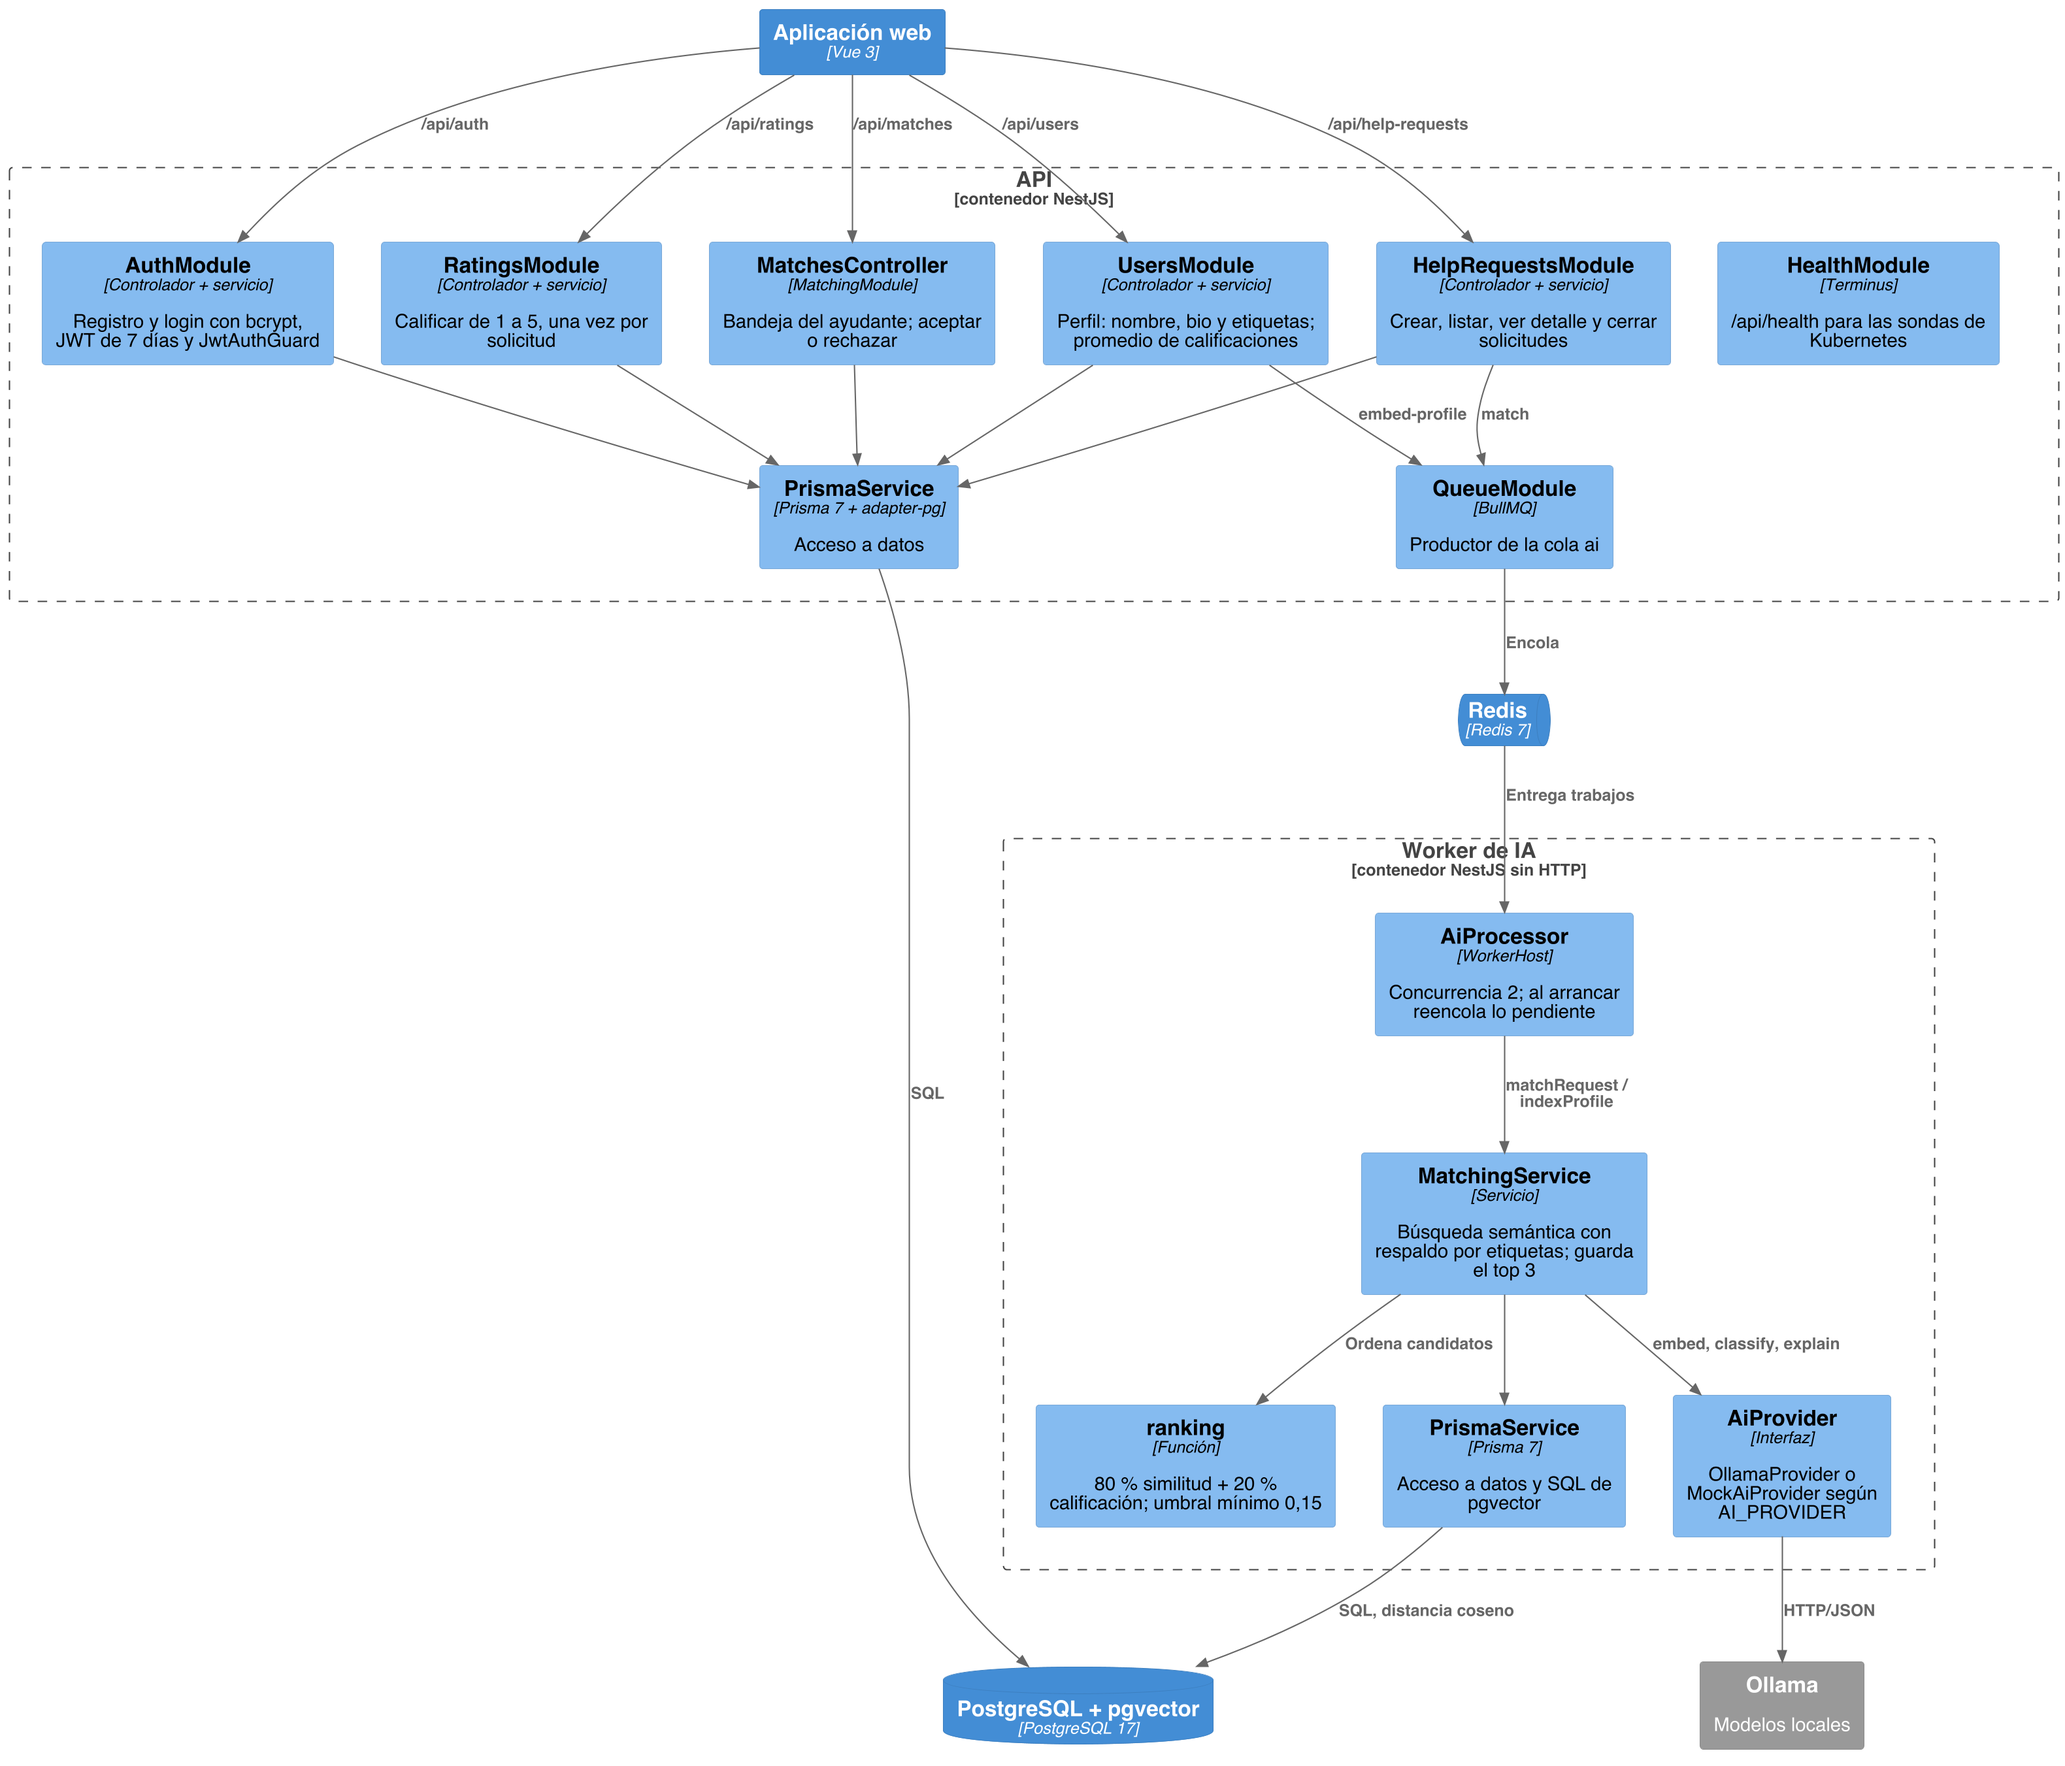
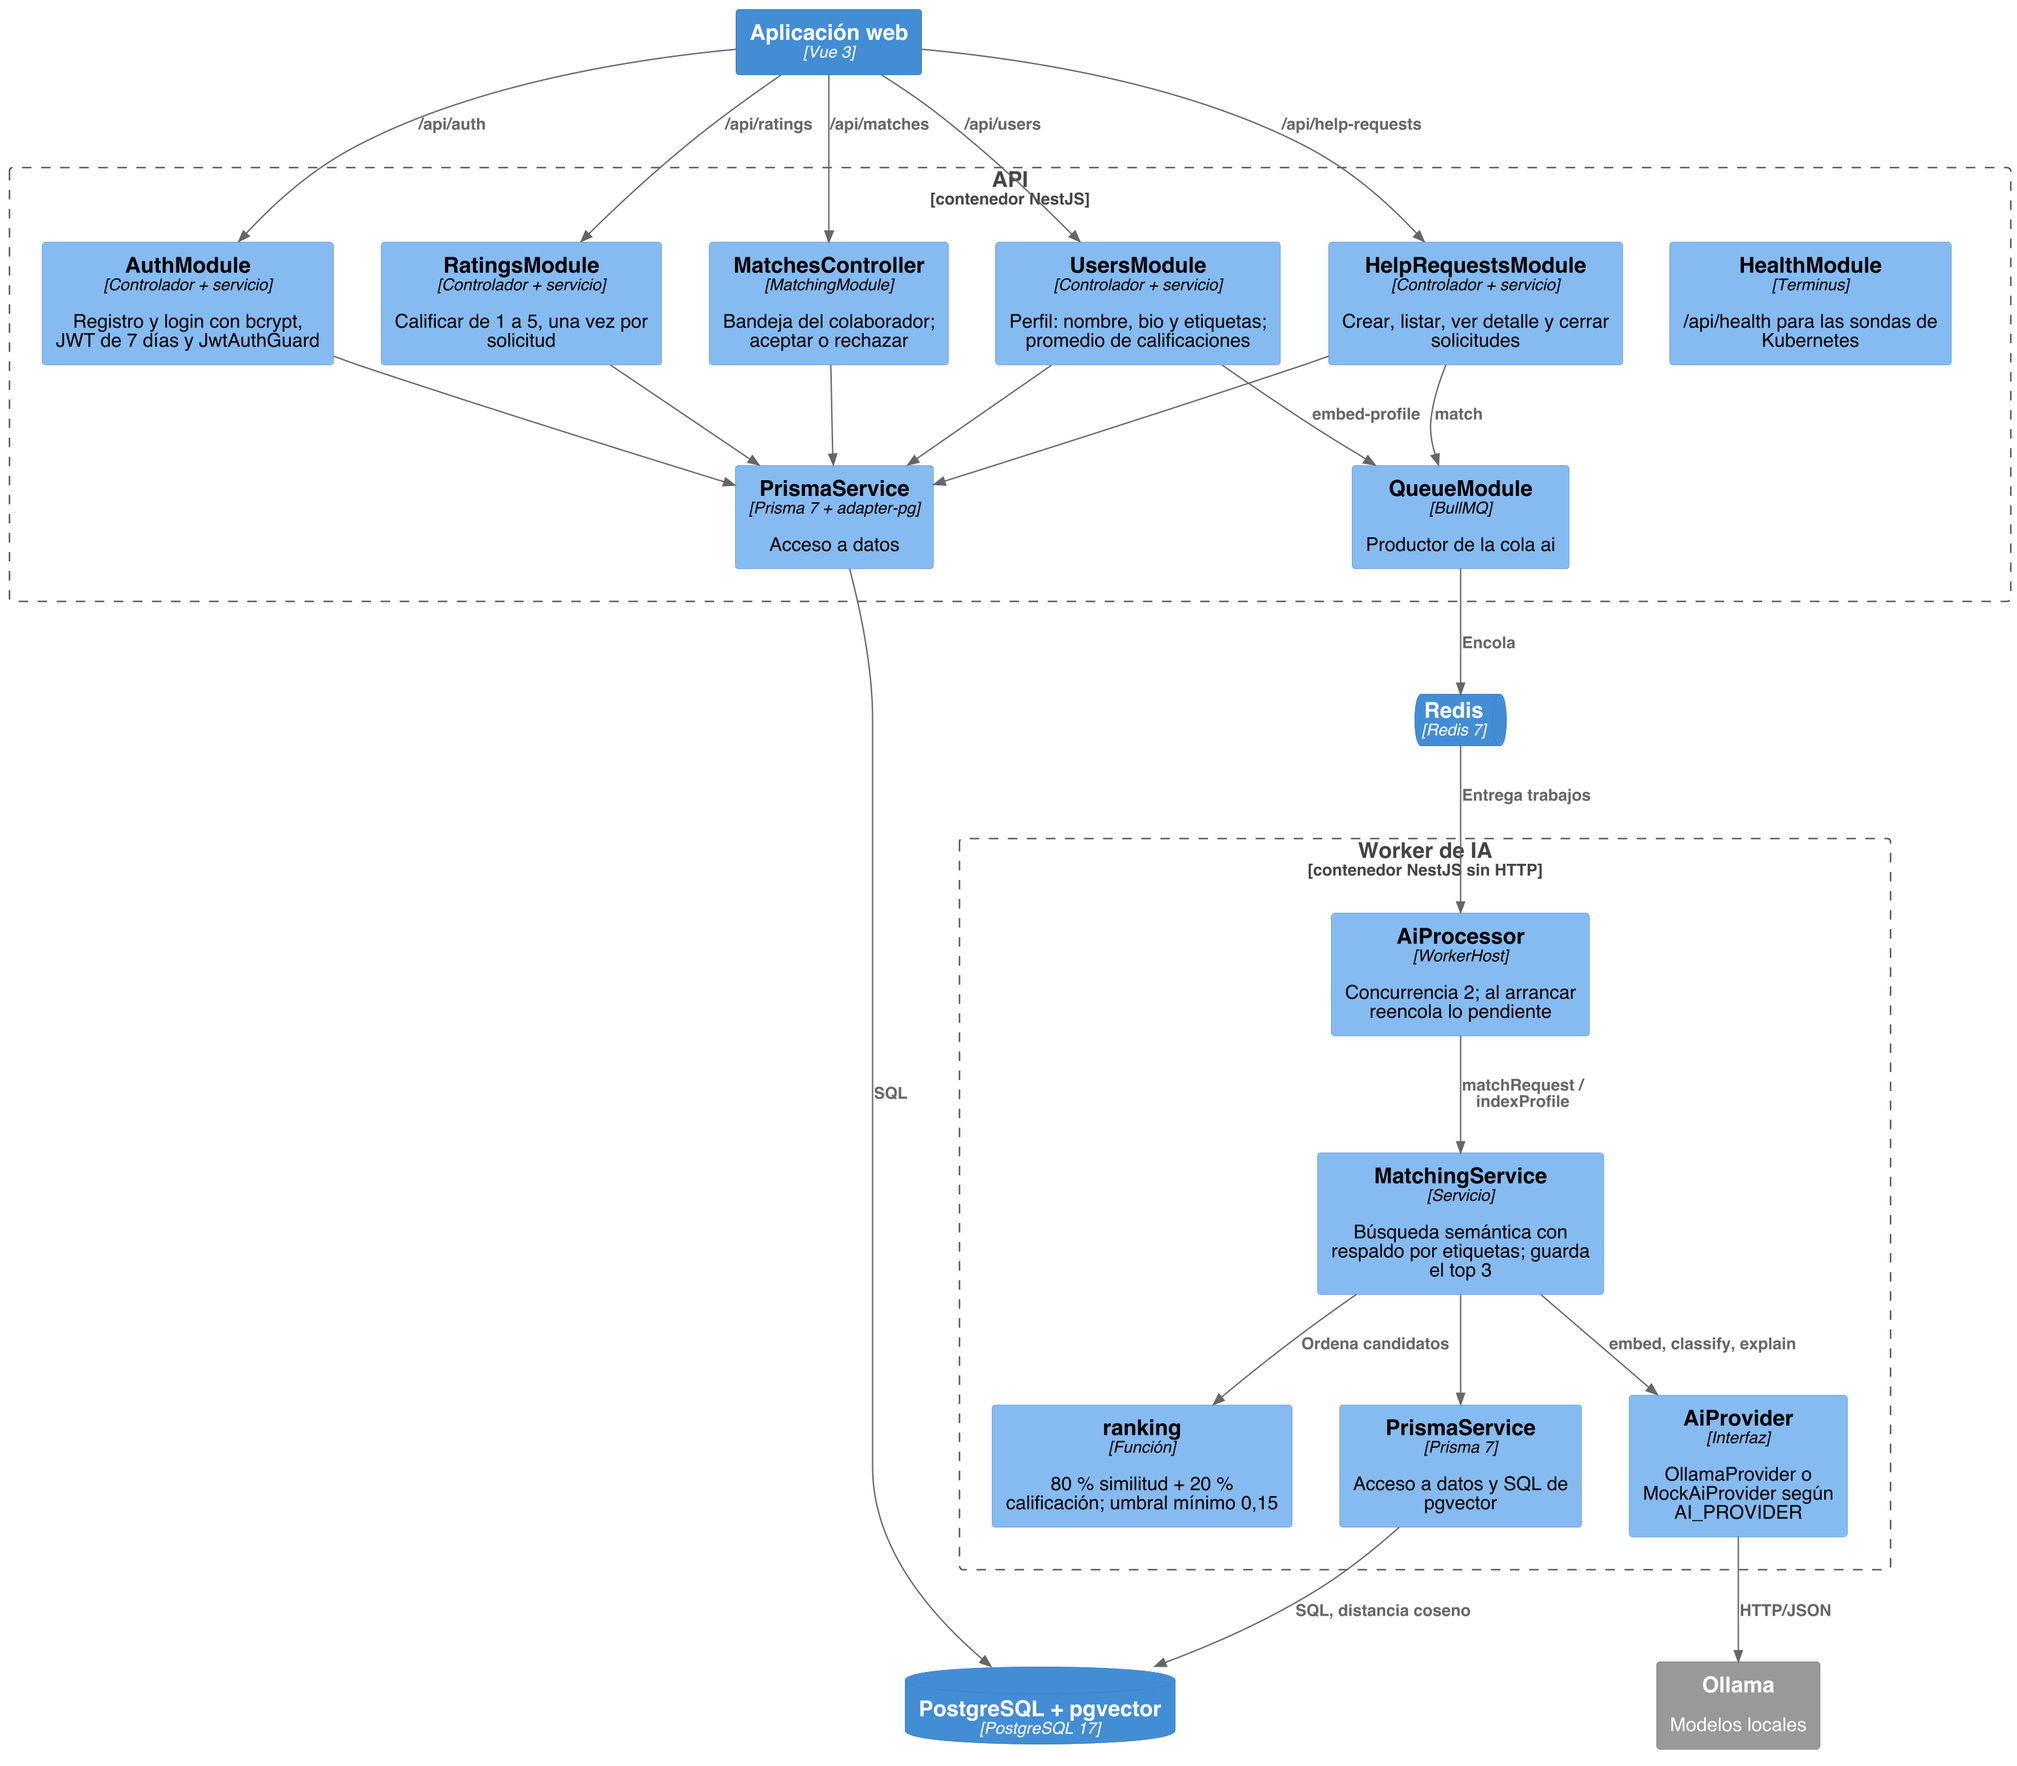
docs(arquitectura): términos solicitante y colaborador en diagramas (#19)
## Qué cambia
- Los diagramas usan los mismos términos del documento del proyecto: **Ayudante → Colaborador** y **Estudiante solicitante / Estudiante → Solicitante**.
- Fuentes `.puml` actualizadas: 01, 02 y 03 (C4), 07 (casos de uso), 08 y 09 (secuencias) y 11 (estados).
- PNG regenerados con PlantUML para esos 7 diagramas.
- `diagramas.md` y `diccionario-de-datos.md` actualizados con el mismo término.

## Por qué
El documento de entrega (Google Docs) habla de *solicitante* y *colaborador* como funciones de una misma cuenta. Los diagramas decían *Ayudante*, y la diferencia se notaba al ponerlos juntos.

diff --git a/docs/arquitectura/diccionario-de-datos.md b/docs/arquitectura/diccionario-de-datos.md
@@ -15,7 +15,7 @@ Los **plazos de conservación** son una propuesta: el equipo debe aprobarlos y l
 | Campo | Tipo | Nulo | Restricción | Descripción | Clasificación | Protección | Conservación propuesta |
 | --- | --- | --- | --- | --- | --- | --- | --- |
 | id | uuid | No | PK | Identificador interno | Público | No revela orden ni cantidad de usuarios | Mientras exista la cuenta |
-| email | text | No | Único | Correo de acceso; se entrega al autor solo cuando un ayudante acepta | Personal | No se expone en `GET /users/:id`; solo viaja en `POST /matches/:id/accept` | Mientras exista la cuenta |
+| email | text | No | Único | Correo de acceso; se entrega al autor solo cuando un colaborador acepta | Personal | No se expone en `GET /users/:id`; solo viaja en `POST /matches/:id/accept` | Mientras exista la cuenta |
 | passwordHash | text | No | – | Hash bcrypt de la contraseña (8 a 72 caracteres) | Credencial | bcrypt con sal; nunca sale de la API | Mientras exista la cuenta |
 | name | text | No | – | Nombre visible | Personal | Visible solo para usuarios con sesión | Mientras exista la cuenta |
 | bio | text | Sí | – | Habilidades y experiencia en texto libre | Personal | Se procesa solo con IA local (Ollama), sin enviarla a terceros | Mientras exista la cuenta |
@@ -44,26 +44,26 @@ Los **plazos de conservación** son una propuesta: el equipo debe aprobarlos y l
 | --- | --- | --- | --- | --- | --- | --- | --- |
 | id | uuid | No | PK | Identificador | Público | – | Igual que la solicitud |
 | requestId | uuid | No | FK → HelpRequest; único con helperId | Solicitud | Público | – | Igual que la solicitud |
-| helperId | uuid | No | FK → User | Ayudante propuesto | Personal | Solo él ve la bandeja; solo él acepta o rechaza | Igual que la solicitud |
+| helperId | uuid | No | FK → User | Colaborador propuesto | Personal | Solo él ve la bandeja; solo él acepta o rechaza | Igual que la solicitud |
 | score | float | No | 0 a 1 | 0,8 × similitud + 0,2 × calificación | Personal derivado (perfilamiento) | Se explica al usuario (transparencia de la IA) | Igual que la solicitud |
 | explanation | text | Sí | – | Frase del LLM de por qué encaja | Personal derivado | Generada con IA local; respaldo por plantilla | Igual que la solicitud |
-| status | enum | No | PROPOSED, ACCEPTED, REJECTED | Respuesta del ayudante | Público | – | Igual que la solicitud |
+| status | enum | No | PROPOSED, ACCEPTED, REJECTED | Respuesta del colaborador | Público | – | Igual que la solicitud |
 | createdAt | timestamp | No | default now() | – | Público | – | Igual que la solicitud |
 
 ## Rating (calificación)
 
 | Campo | Tipo | Nulo | Restricción | Descripción | Clasificación | Protección | Conservación propuesta |
 | --- | --- | --- | --- | --- | --- | --- | --- |
-| id | uuid | No | PK | Identificador | Público | – | Mientras exista la cuenta del ayudante |
+| id | uuid | No | PK | Identificador | Público | – | Mientras exista la cuenta del colaborador |
 | requestId | uuid | No | FK → HelpRequest; **único** | Una calificación por solicitud | Público | Índice único en la base | Igual |
 | authorId | uuid | No | FK → User | Quién califica (solo el autor de la solicitud) | Personal | La API no expone las calificaciones individuales | Igual |
-| helperId | uuid | No | FK → User | Ayudante calificado | Personal | Solo se publica el promedio | Igual |
+| helperId | uuid | No | FK → User | Colaborador calificado | Personal | Solo se publica el promedio | Igual |
 | stars | int | No | 1 a 5 | Estrellas | Personal (evaluación) | Validado en la API | Igual |
 | createdAt | timestamp | No | default now() | – | Público | – | Igual |
 
 ## Embeddings e índice vectorial (RAG)
 
-- **Qué se vectoriza:** el perfil (`bio` + `tags`) y el texto de cada solicitud. No hay documentos aparte: los "documentos" del RAG son los perfiles de los ayudantes.
+- **Qué se vectoriza:** el perfil (`bio` + `tags`) y el texto de cada solicitud. No hay documentos aparte: los "documentos" del RAG son los perfiles de los colaboradores.
 - **Dónde se guarda:** en la misma tabla, columna `embedding vector(768)` de pgvector, así se borran junto con el dato de origen.
 - **Modelo:** `paraphrase-multilingual` en Ollama, local (elegido en IA-07 frente a `nomic-embed-text` y `all-minilm`). Ningún dato sale a una API externa.
 - **Búsqueda:** distancia coseno (`<=>`), los 10 más cercanos, y luego `ranking.ts` deja el top 3. El texto de esos 3 perfiles es el contexto que recibe `qwen2.5:3b` para escribir la explicación. Desde IA-07 la similitud es híbrida: 0,6 · coseno + 0,4 · coincidencia de palabras, con umbral 0,25.

diff --git a/docs/arquitectura/diagramas.md b/docs/arquitectura/diagramas.md
@@ -71,7 +71,7 @@ Tomado de `RedNexus-Backend/prisma/schema.prisma`. El detalle de cada campo, su 
 
 ## 7. Casos de uso
 
-En el MVP un mismo usuario puede pedir y dar ayuda: *Estudiante solicitante* y *Ayudante* son especializaciones de *Usuario registrado* y heredan sus casos de uso.
+En el MVP un mismo usuario puede pedir y dar ayuda: *Solicitante* y *Colaborador* son especializaciones de *Usuario registrado* y heredan sus casos de uso.
 
 ![Casos de uso](img/07-casos-de-uso.png)
 
@@ -83,7 +83,7 @@ La API responde de inmediato con `PENDING`; el trabajo pesado ocurre en el worke
 
 ## 9. Secuencia: aceptar la ayuda y calificar
 
-Solo el primer ayudante que acepta se queda con la solicitud; los demás reciben un 409.
+Solo el primer colaborador que acepta se queda con la solicitud; los demás reciben un 409.
 
 ![Secuencia de aceptar y calificar](img/09-secuencia-aceptar-calificar.png)
 
